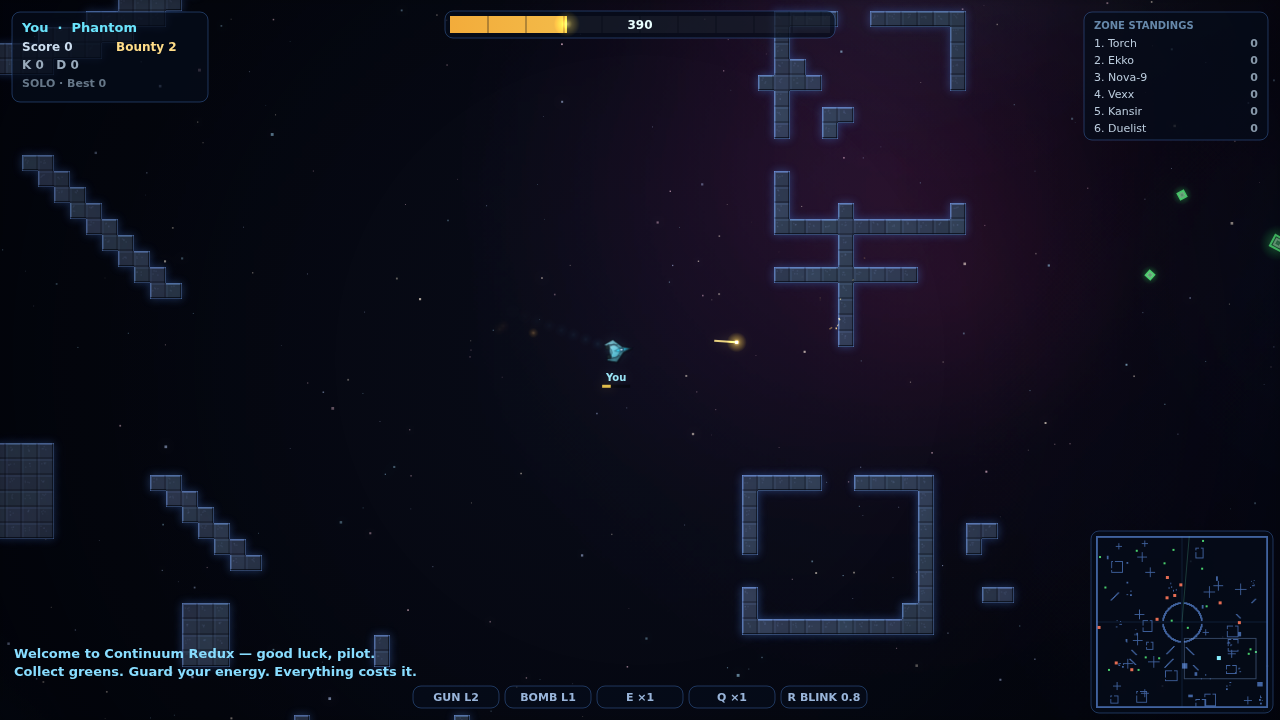
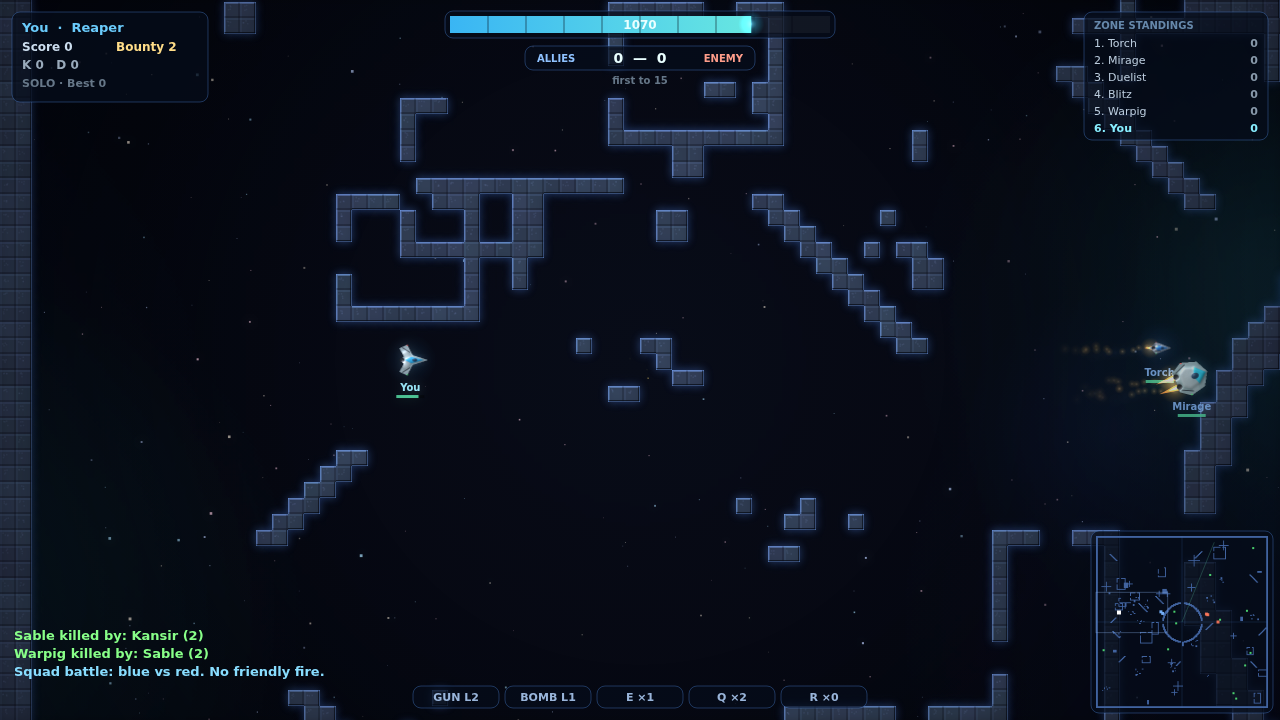
Bake realistically lit ship sprites: per-pixel normals, specular, rim light
Replace the flat gradient-shaded polygon ships with a code-only sprite
baking pipeline that produces pre-rendered-3D-model looks:

- Every rotation frame renders a HEIGHTMAP (rounded fuselage volume
  tallest at the cockpit, raised deck, accent ridge, cockpit dome,
  recessed engine nozzles, seam grooves) blurred into bevels, plus an
  ALBEDO map (desaturated hull metal with deterministic panel-plating
  tonal variation, saturated team-color stripes, glass, dark nozzles,
  and red/green port/starboard nav lights).
- A per-pixel pass derives surface normals from the heights and applies
  fixed top-left directional lighting: diffuse + Blinn-Phong specular +
  rim light + a crisp dark silhouette edge, supersampled 2x and
  downscaled into the 36-frame rotation atlas.
- The select carousel uses large-scale bakes of the same pipeline; the
  neon under-glow is reduced to a subtle team-color halo since the
  sprite lighting now carries the look.

Fix smoke-test flakiness: the server test now clears data/players.json
first so fresh-elo assertions are deterministic.

Claude-Session: https://claude.ai/code/session_01B8hcSvZjcaomtossQcuxbY

diff --git a/client.js b/client.js
@@ -1033,9 +1033,15 @@
   }
 
   // ---------------------------------------------------------------- ship art
-  // Ships are solid, metallic, shaded craft lit from the screen's top-left,
-  // rendered through a 36-frame rotation atlas for a crisp baked-sprite feel.
+  // Realistically lit sprites, baked entirely in code: every rotation frame
+  // renders a HEIGHTMAP (rounded fuselage, raised deck, cockpit dome,
+  // recessed nozzles, seam grooves) and an ALBEDO map (grey hull metal with
+  // panel tonal variation, team-color stripes, glass, nav lights), then a
+  // per-pixel pass derives surface normals from the heights and applies
+  // directional lighting — diffuse + specular + rim + dark silhouette edge.
+  // The result reads like pre-rendered 3D models, with zero image assets.
   const ROT_FRAMES = 36;
+  const atlasCache = new Map();
 
   function tracePolyOn(g, pts, r) {
     g.beginPath();
@@ -1052,50 +1058,48 @@
     const [cx, cy] = centroid(pts);
     return pts.map(p => [cx + (p[0] - cx) * k, cy + (p[1] - cy) * k]);
   }
-  // draw a fully shaded ship at any size; `lightA` is the light direction
-  // in LOCAL ship space (pass -shipAngle - 3π/4 for fixed top-left world light)
-  function drawShipGeometry(g, t, hue, r, lightA) {
-    const lx = Math.cos(lightA), ly = Math.sin(lightA);
-    const metal = (sat, lo, hi) => {
-      const grad = g.createLinearGradient(lx * r, ly * r, -lx * r, -ly * r);
-      grad.addColorStop(0, 'hsl(' + hue + ',' + sat + '%,' + hi + '%)');
-      grad.addColorStop(0.55, 'hsl(' + hue + ',' + sat + '%,' + ((hi + lo) / 2 | 0) + '%)');
-      grad.addColorStop(1, 'hsl(' + hue + ',' + sat + '%,' + lo + '%)');
-      return grad;
-    };
-    // drop shadow pass — grounds the sprite like the originals
+  function strHash(s) {
+    let h = 2166136261;
+    for (let i = 0; i < s.length; i++) { h ^= s.charCodeAt(i); h = Math.imul(h, 16777619); }
+    return h >>> 0;
+  }
+  const gray = v => {
+    const c = Math.max(0, Math.min(255, Math.round(v * 255)));
+    return 'rgb(' + c + ',' + c + ',' + c + ')';
+  };
+
+  function paintHeight(g, t, r, ang, cs) {
+    g.setTransform(1, 0, 0, 1, 0, 0);
+    g.clearRect(0, 0, cs, cs);
     g.save();
-    g.translate(r * 0.08, r * 0.11);
+    g.translate(cs / 2, cs / 2);
+    g.rotate(ang);
+    const cx = t.cockpit ? t.cockpit[0] * r * 0.5 : 0;
+    g.globalCompositeOperation = 'lighten';
+    // fuselage volume: tallest near the cockpit, sloping to thin wing edges
     tracePolyOn(g, t.shape, r);
-    g.fillStyle = 'rgba(0,0,5,0.35)';
+    const fg = g.createRadialGradient(cx, 0, r * 0.1, cx, 0, r * 1.35);
+    fg.addColorStop(0, gray(0.58));
+    fg.addColorStop(1, gray(0.28));
+    g.fillStyle = fg;
     g.fill();
-    g.restore();
-    // hull
-    tracePolyOn(g, t.shape, r);
-    g.fillStyle = metal(38, 22, 62);
-    g.fill();
-    g.lineWidth = Math.max(1, r * 0.07);
-    g.strokeStyle = 'rgba(6,9,18,0.8)';
-    g.stroke();
-    // raised plate deck
+    // raised deck
     tracePolyOn(g, insetPoly(t.shape, 0.62), r);
-    g.fillStyle = metal(45, 32, 74);
+    const dg = g.createRadialGradient(cx, 0, r * 0.08, cx, 0, r);
+    dg.addColorStop(0, gray(0.75));
+    dg.addColorStop(1, gray(0.5));
+    g.fillStyle = dg;
     g.fill();
-    g.lineWidth = 1;
-    g.strokeStyle = 'rgba(8,12,22,0.45)';
-    g.stroke();
-    // team-color accent
     if (t.accent) {
       tracePolyOn(g, t.accent, r);
-      g.fillStyle = metal(92, 46, 70);
+      g.fillStyle = gray(0.82);
       g.fill();
-      g.strokeStyle = 'rgba(8,12,22,0.45)';
-      g.stroke();
     }
-    // panel seams
+    g.globalCompositeOperation = 'source-over';
+    // seam grooves carve into the hull so they catch the light
     if (t.deco) {
-      g.strokeStyle = 'rgba(8,12,24,0.65)';
-      g.lineWidth = Math.max(1, r * 0.06);
+      g.strokeStyle = gray(0.32);
+      g.lineWidth = Math.max(1.5, r * 0.05);
       g.beginPath();
       for (const line of t.deco) {
         g.moveTo(line[0][0] * r, line[0][1] * r);
@@ -1103,59 +1107,172 @@
       }
       g.stroke();
     }
-    // engine nozzles
+    // cockpit dome
+    if (t.cockpit) {
+      const [px, py, rx, ry] = t.cockpit;
+      const cg = g.createRadialGradient(px * r, py * r, 0.5, px * r, py * r, Math.max(rx, ry) * r * 1.3);
+      cg.addColorStop(0, gray(0.98));
+      cg.addColorStop(1, gray(0.62));
+      g.fillStyle = cg;
+      g.beginPath();
+      g.ellipse(px * r, py * r, rx * r, ry * r, 0, 0, TAU);
+      g.fill();
+    }
+    // recessed engine nozzles
     for (const en of t.engines) {
       g.beginPath();
       g.arc(en[0] * r, en[1] * r, r * 0.16, 0, TAU);
-      g.fillStyle = 'hsl(' + hue + ',20%,10%)';
+      g.fillStyle = gray(0.14);
       g.fill();
-      g.strokeStyle = 'rgba(8,12,22,0.7)';
-      g.lineWidth = 1;
-      g.stroke();
     }
-    // cockpit glass with specular glint toward the light
-    if (t.cockpit) {
-      const [cx, cy, crx, cry] = t.cockpit;
-      const gx = cx * r + lx * crx * r * 0.45, gy = cy * r + ly * cry * r * 0.45;
-      const cg = g.createRadialGradient(gx, gy, 0.5, cx * r, cy * r, crx * r * 1.5);
-      cg.addColorStop(0, 'rgba(235,248,255,0.95)');
-      cg.addColorStop(0.45, 'rgba(120,185,240,0.85)');
-      cg.addColorStop(1, 'rgba(20,45,95,0.9)');
-      g.fillStyle = cg;
-      g.beginPath();
-      g.ellipse(cx * r, cy * r, crx * r, cry * r, 0, 0, TAU);
-      g.fill();
-      g.strokeStyle = 'rgba(8,12,22,0.7)';
-      g.lineWidth = 1;
-      g.stroke();
-    }
+    g.restore();
   }
 
-  // 36-frame rotation atlas per (type,hue), world light fixed at top-left
-  const atlasCache = new Map();
-  const LIGHT_WORLD = -3 * Math.PI / 4; // from top-left of the screen
-  function shipAtlas(typeKey, hue) {
-    const key = typeKey + ':' + Math.round(hue);
-    let a = atlasCache.get(key);
-    if (a) return a;
+  function paintAlbedo(g, t, hue, r, ang, cs) {
+    g.setTransform(1, 0, 0, 1, 0, 0);
+    g.clearRect(0, 0, cs, cs);
+    g.save();
+    g.translate(cs / 2, cs / 2);
+    g.rotate(ang);
+    // hull: desaturated metal with a whisper of the team hue
+    tracePolyOn(g, t.shape, r);
+    g.fillStyle = 'hsl(' + hue + ',16%,60%)';
+    g.fill();
+    // deterministic panel plating — same panels every frame and hue
+    g.save();
+    tracePolyOn(g, t.shape, r);
+    g.clip();
+    const rng = SIM.mulberry32(strHash(t.label));
+    for (let i = 0; i < 7; i++) {
+      const px = (rng() * 2 - 1) * r, py = (rng() * 2 - 1) * r;
+      const pw = (0.3 + rng() * 0.7) * r, ph = (0.2 + rng() * 0.5) * r;
+      g.fillStyle = 'hsla(' + hue + ',14%,' + (54 + rng() * 12) + '%,0.85)';
+      g.fillRect(px, py, pw, ph);
+    }
+    g.restore();
+    // deck + accent
+    tracePolyOn(g, insetPoly(t.shape, 0.62), r);
+    g.fillStyle = 'hsla(' + hue + ',12%,66%,0.95)';
+    g.fill();
+    if (t.accent) {
+      tracePolyOn(g, t.accent, r);
+      g.fillStyle = 'hsl(' + hue + ',75%,48%)';
+      g.fill();
+    }
+    // seams
+    if (t.deco) {
+      g.strokeStyle = 'rgba(18,22,32,0.85)';
+      g.lineWidth = Math.max(1.5, r * 0.05);
+      g.beginPath();
+      for (const line of t.deco) {
+        g.moveTo(line[0][0] * r, line[0][1] * r);
+        for (let i = 1; i < line.length; i++) g.lineTo(line[i][0] * r, line[i][1] * r);
+      }
+      g.stroke();
+    }
+    // cockpit glass (the lighting pass turns the dome into a glint)
+    if (t.cockpit) {
+      const [px, py, rx, ry] = t.cockpit;
+      g.fillStyle = '#16304e';
+      g.beginPath();
+      g.ellipse(px * r, py * r, rx * r, ry * r, 0, 0, TAU);
+      g.fill();
+    }
+    // nozzles
+    for (const en of t.engines) {
+      g.beginPath();
+      g.arc(en[0] * r, en[1] * r, r * 0.16, 0, TAU);
+      g.fillStyle = '#14161c';
+      g.fill();
+    }
+    // nav lights: port red, starboard green
+    let maxY = t.shape[0], minY = t.shape[0];
+    for (const p of t.shape) { if (p[1] > maxY[1]) maxY = p; if (p[1] < minY[1]) minY = p; }
+    g.fillStyle = '#ff5348';
+    g.beginPath(); g.arc(minY[0] * r * 0.94, minY[1] * r * 0.94, Math.max(1, r * 0.05), 0, TAU); g.fill();
+    g.fillStyle = '#4dff7a';
+    g.beginPath(); g.arc(maxY[0] * r * 0.94, maxY[1] * r * 0.94, Math.max(1, r * 0.05), 0, TAU); g.fill();
+    g.restore();
+  }
+
+  // fixed screen-space light from the top-left, slightly overhead
+  const LX = -0.55, LY = -0.55, LZ = 0.628;
+  const HLEN = Math.hypot(LX, LY, LZ + 1);
+  const HX = LX / HLEN, HY = LY / HLEN, HZ = (LZ + 1) / HLEN;
+  function lightCompose(fctx, hImg, aImg, cs) {
+    const out = fctx.createImageData(cs, cs);
+    const hd = hImg.data, ad = aImg.data, od = out.data;
+    const HS = 3.1;
+    for (let y = 1; y < cs - 1; y++) {
+      for (let x = 1; x < cs - 1; x++) {
+        const i = (y * cs + x) * 4;
+        const a = ad[i + 3];
+        if (!a) continue;
+        // silhouette edge: crisp dark outline
+        if (!ad[i - 1] || !ad[i + 7] || !ad[i - cs * 4 + 3] || !ad[i + cs * 4 + 3]) {
+          od[i] = 8; od[i + 1] = 10; od[i + 2] = 16; od[i + 3] = a;
+          continue;
+        }
+        let nx = (hd[i - 4] - hd[i + 4]) / 255 * HS;
+        let ny = (hd[i - cs * 4] - hd[i + cs * 4]) / 255 * HS;
+        const inv = 1 / Math.sqrt(nx * nx + ny * ny + 1);
+        nx *= inv; ny *= inv;
+        const nz = inv;
+        let diff = nx * LX + ny * LY + nz * LZ;
+        if (diff < 0) diff = 0;
+        let spec = nx * HX + ny * HY + nz * HZ;
+        spec = spec < 0 ? 0 : Math.pow(spec, 26) * 160;
+        const rim = Math.pow(1 - nz, 1.6) * 70;
+        const lum = 0.33 + 0.85 * diff;
+        od[i] = Math.min(255, ad[i] * lum + spec + rim * 0.35);
+        od[i + 1] = Math.min(255, ad[i + 1] * lum + spec + rim * 0.6);
+        od[i + 2] = Math.min(255, ad[i + 2] * lum + spec * 1.06 + rim);
+        od[i + 3] = a;
+      }
+    }
+    fctx.putImageData(out, 0, 0);
+  }
+
+  function shipAtlas(typeKey, hue, scaleMul) {
+    scaleMul = scaleMul || 1;
+    const key = typeKey + ':' + Math.round(hue) + ':' + scaleMul;
+    let cached = atlasCache.get(key);
+    if (cached) return cached;
     const t = SHIP_TYPES[typeKey];
-    const r = t.radius * 1.35;
-    const cell = Math.ceil(r * 2 * 1.35) + 10;
+    const r0 = t.radius * 1.35 * scaleMul;
+    const cell = Math.ceil(r0 * 2 * 1.4) + 12;
+    const SS = 2;                       // supersample, downscaled into the atlas
+    const cs = cell * SS;
+    const r = r0 * SS;
     const doc = GLOBAL.document;
-    const c = doc.createElement('canvas');
-    c.width = cell * ROT_FRAMES; c.height = cell;
-    const g = c.getContext('2d');
+    const mk = () => { const c = doc.createElement('canvas'); c.width = c.height = cs; return c; };
+    const hC = mk(), aC = mk(), fC = mk(), sC = mk();
+    const hctx = hC.getContext('2d'), actx2 = aC.getContext('2d');
+    const fctx = fC.getContext('2d'), sctx = sC.getContext('2d');
+    const atlas = doc.createElement('canvas');
+    atlas.width = cell * ROT_FRAMES; atlas.height = cell;
+    const g = atlas.getContext('2d');
     for (let f = 0; f < ROT_FRAMES; f++) {
       const ang = f / ROT_FRAMES * TAU;
-      g.save();
-      g.translate(f * cell + cell / 2, cell / 2);
-      g.rotate(ang);
-      drawShipGeometry(g, t, hue, r, LIGHT_WORLD - ang);
-      g.restore();
+      paintHeight(hctx, t, r, ang, cs);
+      // soften the heightmap so edges become bevels for the normal pass
+      try {
+        sctx.setTransform(1, 0, 0, 1, 0, 0);
+        sctx.clearRect(0, 0, cs, cs);
+        sctx.drawImage(hC, 0, 0);
+        hctx.setTransform(1, 0, 0, 1, 0, 0);
+        hctx.clearRect(0, 0, cs, cs);
+        hctx.filter = 'blur(' + Math.max(1, SS) + 'px)';
+        hctx.drawImage(sC, 0, 0);
+        hctx.filter = 'none';
+      } catch (e) { }
+      paintAlbedo(actx2, t, hue, r, ang, cs);
+      lightCompose(fctx, hctx.getImageData(0, 0, cs, cs), actx2.getImageData(0, 0, cs, cs), cs);
+      g.drawImage(fC, 0, 0, cs, cs, f * cell, 0, cell, cell);
     }
-    a = { c, cell };
-    atlasCache.set(key, a);
-    return a;
+    cached = { c: atlas, cell };
+    atlasCache.set(key, cached);
+    return cached;
   }
 
   function drawShip(s) {
@@ -1183,6 +1300,11 @@
     ctx.save();
     ctx.globalAlpha = alpha;
     ctx.translate(s.x, s.y);
+    // faint team-color halo so ships read against the void (kept subtle —
+    // the sprite's own lighting carries the look now)
+    ctx.globalCompositeOperation = 'lighter';
+    drawGlow(0, 0, 50, s.hue, stealthy ? 0.06 : 0.14);
+    ctx.globalCompositeOperation = 'source-over';
 
     // engine flames under the hull, aligned to the quantized frame
     const th = s.remote ? s.netTh : (s.ctl.thrust > 0 || s.rocketT > 0 ? 1 : 0);
@@ -1669,12 +1791,13 @@
       ctx.globalAlpha = focus ? 1 : 0.35;
       if (focus) {
         ctx.globalCompositeOperation = 'lighter';
-        drawGlow(0, 0, 190, t.hue, 0.25);
+        drawGlow(0, 0, 190, t.hue, 0.18);
         ctx.globalCompositeOperation = 'source-over';
       }
       const ang = focus ? G.time * 0.9 : -0.5;
-      ctx.rotate(ang);
-      drawShipGeometry(ctx, t, t.hue, t.radius * scale, LIGHT_WORLD - ang);
+      const at = shipAtlas(SHIP_ORDER[i], t.hue, focus ? 2.8 : 1.4);
+      const fr = ((Math.round(ang / TAU * ROT_FRAMES) % ROT_FRAMES) + ROT_FRAMES) % ROT_FRAMES;
+      ctx.drawImage(at.c, fr * at.cell, 0, at.cell, at.cell, -at.cell / 2, -at.cell / 2, at.cell, at.cell);
       ctx.restore();
     }
 

diff --git a/dev/smoke.js b/dev/smoke.js
@@ -323,6 +323,8 @@ const SIM = require(path.join(ROOT, 'sim.js'));
 // ============================================================ 3) server test
 (async () => {
   const PORT = 8667;
+  // fresh pilot database so elo assertions are deterministic
+  try { fs.rmSync(path.join(ROOT, 'data'), { recursive: true, force: true }); } catch (e) { }
   const srv = spawn(process.execPath, [path.join(ROOT, 'server.js')], {
     env: Object.assign({}, process.env, { PORT: String(PORT), BOTS: '4' }),
     stdio: ['ignore', 'pipe', 'pipe'],
